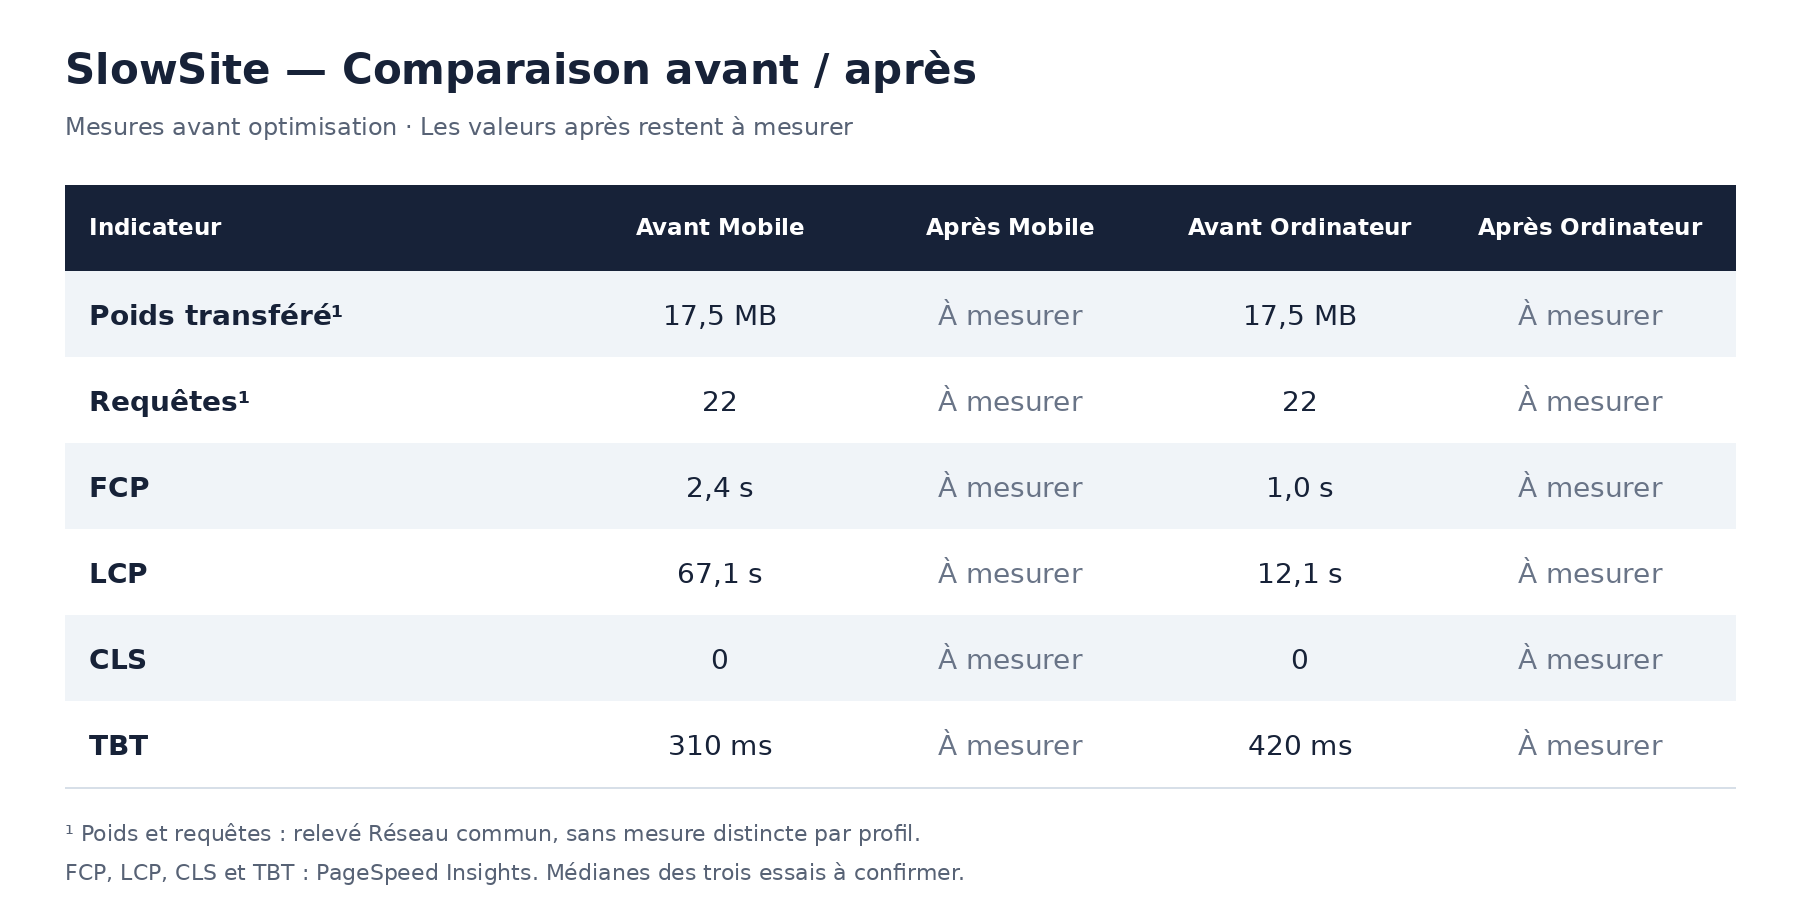
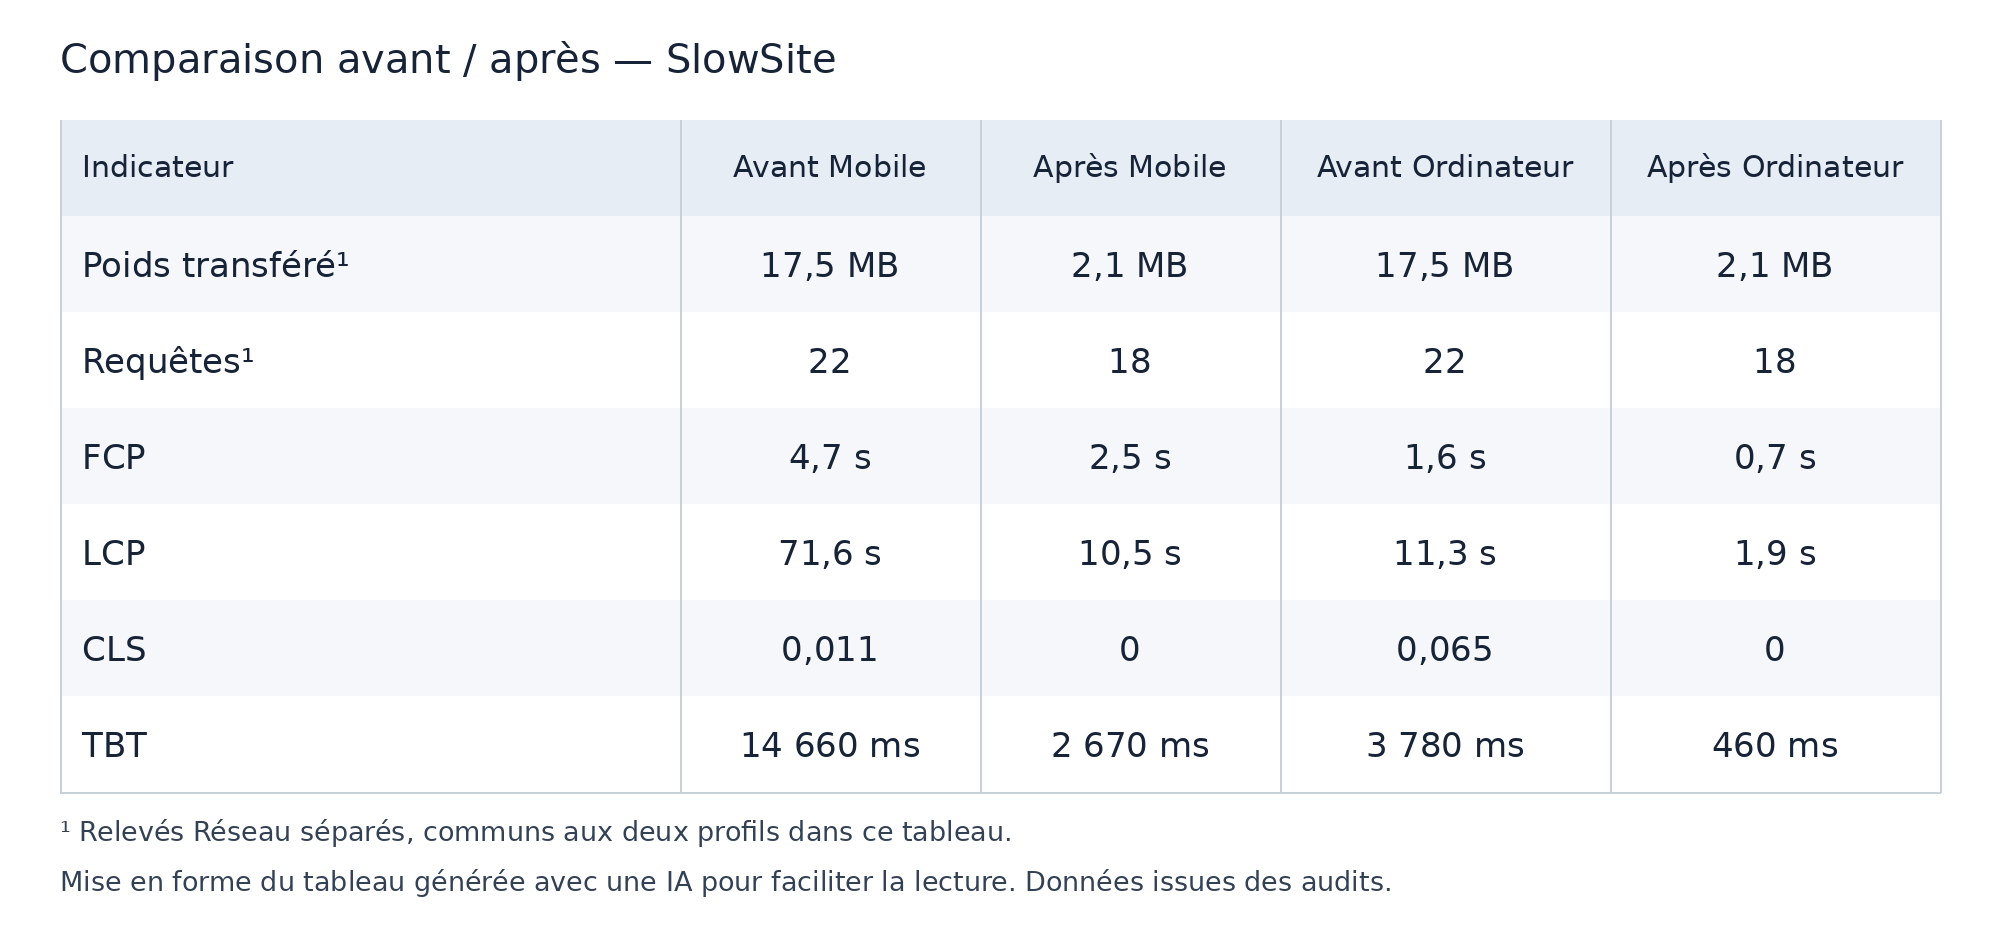
rapport

diff --git a/rapport.md b/rapport.md
@@ -6,189 +6,100 @@ Site : https://mohamed-site-web.github.io/R314-optimisation-site/
 
 Dépôt : https://github.com/mohamed-site-web/R314-optimisation-site
 
-## 1. Audit initial
+## 1. Audit initial et conditions de mesure
 
-L’objectif est de rendre SlowSite plus rapide en gardant la même apparence et les mêmes fonctionnalités.
+L’objectif du TP est de rendre SlowSite plus rapide en conservant son apparence et ses fonctionnalités.
 
-Les relevés portent sur le site publié sur GitHub Pages. Pour Réseau, le cache est désactivé et les fichiers sont triés par taille.
+Les mesures ont été réalisées sur le site publié sur GitHub Pages. Dans Réseau, le cache était désactivé et les ressources étaient triées par taille. Le relevé final a été effectué après défilement pour charger aussi les images différées. Les tailles en MB sont reprises telles qu’elles sont affichées par le navigateur.
 
-Le test Lighthouse Mobile a été réalisé en navigation privée. Les trois scores obtenus sont 25, 27 et 26. J’ai retenu l’essai à 26/100, qui correspond au score médian.
+Pour les audits Lighthouse finaux, j’ai utilisé les profils Mobile et Ordinateur en navigation privée, sans le widget ?perf=1. Les trois scores Mobile initiaux étaient 25, 27 et 26. La capture retenue correspond au score médian de 26. Pour les relevés finaux, j’ai effectué trois essais par profil et calculé la médiane de chaque indicateur séparément. La capture Ordinateur initiale disponible constitue un relevé unique, et non une médiane de trois essais documentés ; ses conditions initiales ne sont pas entièrement documentées.
 
-Les séries de trois essais des autres profils restent à documenter. Pour Performance, le réglage CPU ×4 et la durée complète d’au moins 20 secondes avec défilement restent à confirmer. Le relevé Lighthouse Ordinateur reste provisoire tant que ses conditions sans extensions ne sont pas confirmées.
+Le panneau Performance a été utilisé avec un ralentissement CPU ×4 et des enregistrements avec défilement d’au moins 20 secondes. Des sessions sans défilement ont aussi permis de comparer le script différé sur fenêtre large et étroite. Coverage a servi à repérer le CSS inutilisé, avec une vérification des fichiers HTML et JavaScript avant suppression.
 
-### Réseau
-
-Le site transfère 17,5 MB pour 22 requêtes. Les images représentent l’essentiel du poids : plusieurs dépassent 1 MB et certaines atteignent environ 3,39 MB.
+Au départ, Réseau indiquait 17,5 MB pour 22 requêtes. Les images représentaient l’essentiel du poids.
 
 ![Réseau avant optimisation](audit/Reseau-avant.png)
 
-### Lighthouse
+PageSpeed Insights donnait aussi des LCP élevés : 67,1 s sur Mobile et 12,1 s sur Ordinateur. Les captures sont conservées dans audit/Insights.png et audit/Insights-pc.png. Ces résultats ne sont pas mélangés avec Lighthouse dans le tableau, car les conditions sont différentes. Aucune donnée de terrain sur les visiteurs n’était disponible : l’audit repose sur des données de laboratoire.
 
-Sur Mobile, le résultat retenu est de 26/100 :
+## 2. Problèmes, corrections et résultats
 
-- FCP : 4,7 s.
-- LCP : 71,6 s.
-- TBT : 14 660 ms.
-- CLS : 0,011.
+### Images et téléchargements inutiles
 
-Le contenu principal apparaît très tard et le thread principal reste longtemps bloqué pendant le chargement.
+Les images étaient trop lourdes. J’ai réduit les six images, utilisé WebP et ajouté des variantes de 760 pixels avec srcset et sizes, selon la grille responsive. Les pages de détail conservent les images plus grandes. La règle max-width:100%;height:auto évite leur débordement sur petit écran.
 
-![Lighthouse Mobile avant optimisation](audit/Lighthouse-Mobile-avant.png)
+Après réduction des images, le total est passé de 14,2 à 7,4 MB. Le passage en WebP seul n’a pas apporté de gain : le relevé suivant affichait 7,6 MB. L’optimisation du fond a ensuite réduit son transfert d’environ 3,39 MB à 788 kB et le total à 5 MB. Avec les variantes adaptées à la galerie, un relevé affichait environ 2,09 MB. Ces étapes sont documentées dans les captures Réseau intermédiaires du dossier audit/.
 
-Sur Ordinateur, la capture disponible affiche 29/100 :
+Le préchargement de img6.jpg?v=2 provoquait un téléchargement supplémentaire. Sa suppression a fait passer le poids de 17,5 à 14,2 MB et les requêtes de 22 à 21, soit environ 3,3 MB économisés. Le retrait de la référence au script absent js/legacy/polyfills.js a ensuite réduit les requêtes à 20. Les preuves sont audit/Reseau-apres-prel.png et audit/Reseau-apres-poly.png.
 
-- FCP : 1,6 s.
-- LCP : 11,3 s.
-- TBT : 3 780 ms.
-- CLS : 0,065.
+J’ai ajouté width et height aux images pour réserver leur place. Les CLS relevés après cette étape étaient 0, 0,034 et 0,011 : la médiane de 0,011 ne montrait pas encore de gain par rapport au Mobile initial. J’ai aussi ajouté decoding="async" et loading="lazy" aux dernières images. Le chargement différé décale les transferts sans réduire le poids total une fois toutes les images chargées.
 
-![Lighthouse Ordinateur avant optimisation](<audit/Lighthouse  Ordinateur  Avant optimisation.png>)
+### Chargement des scripts, du CSS et des polices
 
-### PageSpeed Insights
+J’ai ajouté defer aux scripts en conservant leur ordre, remplacé les imports CSS par des liens HTML et regroupé le chargement des polices avec display=swap. J’ai aussi retiré une indication DNS inutile.
 
-Sur Mobile, le score est de 56/100 :
+Après defer, les médianes Mobile étaient FCP 3,3 s, LCP 8,3 s, TBT 10 690 ms et CLS 0. Ce résultat intermédiaire comprend les optimisations d’images précédentes et ne mesure donc pas le gain de defer seul. La capture est audit/Lighthouse-mobile-apres-defer.png.
 
-- FCP : 2,4 s.
-- LCP : 67,1 s.
-- TBT : 310 ms.
-- CLS : 0.
+### Suggestions et calculs pendant le défilement
 
-![PageSpeed Insights Mobile](audit/Insights.png)
+buildKeywordIndex utilisait innerHTML += dans une boucle. J’ai construit toutes les options avant une seule insertion. Les suggestions sont conservées. La fonction n’apparaissait plus parmi les principales activités du relevé suivant, sans que cela signifie un temps nul.
 
-Sur Ordinateur, le score est de 46/100 :
+Dans revealCards, la hauteur maximale était recalculée dans une boucle imbriquée. Les lectures de dimensions et les écritures de styles étaient mélangées, ce qui favorisait les reflows forcés. J’ai supprimé les calculs répétés, séparé les lectures des écritures et regroupé les mises à jour avec requestAnimationFrame.
 
-- FCP : 1 s.
-- LCP : 12,1 s.
-- TBT : 420 ms.
-- CLS : 0.
+Un relevé après correction affichait environ 539 ms de temps total pour revealCards, contre 6 327 ms au départ. Les défilements n’étant pas identiques, ce sont des ordres de grandeur. Les preuves sont audit/Performance-apres-suggestions.png, audit/Performance-apres-revealCards.png et les profils initiaux.
 
-![PageSpeed Insights Ordinateur](audit/Insights-pc.png)
+### Bibliothèque UIKit et observateur
 
-Ces résultats montrent surtout un chargement lent du contenu principal. Les mesures de Lighthouse sur mon ordinateur et celles de PageSpeed ne sont pas directement comparables, car leurs conditions sont différentes.
+UIKit exécutait une attente active et créait un grand tableau inutilisé au démarrage. Son MutationObserver relisait les styles de toute la page après les modifications, notamment pendant le défilement.
 
-L’audit repose sur des données de laboratoire. Je ne dispose pas de données de terrain sur les visiteurs.
+J’ai retiré les calculs inutilisés, puis remplacé les helpers par les fonctions JavaScript natives. Le retrait d’UIKit a aussi supprimé l’observateur inutile, en conservant les interactions. Les appels _sync n’apparaissaient plus parmi les principales activités du profil suivant. La preuve est audit/Performance-apres-retrait-uikit.png.
 
-### Performance et Coverage
+### Calcul différé et conditionnel dans analytics.js
 
-La frise montre plusieurs tâches longues. Dans Bottom-up, `revealCards` représente environ 6 327 ms de temps total et `buildKeywordIndex` environ 3 232 ms. Ces temps incluent les fonctions appelées et ne doivent pas être additionnés.
+Le calcul commençait environ 9,1 secondes après le chargement, puis revenait toutes les 2,6 secondes. Il ne travaillait que sur une page visible de plus de 1 024 pixels de large. Sa boucle occupait progressivement le processeur pendant 46 à 430 ms par appel.
 
-![Frise Performance avant optimisation](audit/frise.png)
+Les chaînes base64 masquaient innerWidth, performance, now et hidden. Leur décodage et les profils ont permis de comprendre le problème. Sur grand écran, _tick cumulait environ 3,94 s sur la plage affichée. En fenêtre étroite, la fonction revenait immédiatement et représentait environ 0,6 ms.
 
-![Bottom-up avant optimisation](<audit/avant optimisation.png>)
+J’ai remplacé la boucle par un seul calcul par appel, en conservant le minuteur et les conditions. Après correction sur grand écran, _tick représentait environ 97 ms sur la plage affichée et les gros pics réguliers avaient disparu. Ces temps de profil ne sont pas le TBT Lighthouse.
 
-Coverage indique une forte proportion de CSS inutilisé pendant la session :
+![Analytics avant correction sur grand écran](audit/Performance-avant-analytics-large.png)
 
-- `styles.css` : 95,8 %.
-- `extra.css` : 99,5 %.
-- `theme-legacy.css` : 80,4 %.
+![Analytics après correction sur grand écran](audit/Performance-apres-analytics.png)
 
-Il faudra vérifier les autres pages et interactions avant de retirer des règles.
+### Nettoyage et minification du CSS
 
-![Résultats Coverage](audit/coverage.png)
+Coverage indiquait 95,8 % de code inutilisé dans styles.css et 99,5 % dans extra.css. Après vérification des pages et des scripts, j’ai supprimé les classes inutilisées redundant-*, extra-*, legacy-*, tile* et highlight. Les règles nécessaires aux images, au calendrier et aux petits écrans ont été conservées.
 
-## 2. Problèmes identifiés et corrections proposées
+Le code de styles.css est passé de 91 998 à 4 348 octets, celui d’extra.css de 28 798 à 142 octets et celui de theme-legacy.css de 1 142 à 299 octets. Coverage n’indiquait plus que 10,9 % d’inutilisé dans styles.css. Ces tailles concernent le code décompressé, pas le transfert réseau.
 
-Les emplacements correspondent au code avant modification. Les corrections suivantes ne sont pas encore appliquées.
+![Coverage après nettoyage du CSS](audit/Coverage-apres-nettoyage-css.png)
 
-### Images et favicon trop lourds
+J’ai conservé les ombres et le flou : le profil ne permettait pas d’isoler leur coût. J’ai limité la transition du bouton à transform, en gardant son ombre au survol. Les autres transitions utilisent déjà transform ou opacity. Aucun gain chiffré propre à ce changement n’est annoncé.
 
-Dans `index.html`, lignes 75 à 90, la galerie utilise des images volumineuses. Le fond déclaré dans `css/theme-legacy.css:10` pèse aussi environ 3,39 MB. Le favicon, appelé dans `index.html:8`, représente environ 788 kB.
+Enfin, j’ai minifié les trois feuilles CSS. Le relevé publié affichait 1,8 kB pour styles.css, sans permettre d’isoler le gain de la minification. La preuve est audit/Reseau-apres-minification-css.png.
 
-Ces poids sont visibles dans la capture Réseau.
+## 3. Comparaison finale
 
-Je propose de compresser les images et d’adapter leurs dimensions à leur utilisation, en gardant une qualité suffisante. Le favicon peut aussi être remplacé par une version plus légère.
+Les valeurs Lighthouse « Avant » viennent des captures initiales : l’essai au score médian pour Mobile et le relevé disponible pour Ordinateur. Les valeurs « Après » sont les médianes de chaque indicateur sur trois essais par profil. Les captures représentatives peuvent donc afficher une valeur différente de certaines médianes.
 
-### Téléchargement supplémentaire
+Le poids et les requêtes proviennent de relevés Réseau séparés. Ils ne sont pas présentés comme des mesures propres à chacun des deux profils Lighthouse. La comparaison réseau dépend aussi du format d’écran, puisque srcset adapte les images téléchargées.
 
-Dans `index.html:12`, le site précharge `img6.jpg?v=2`, alors que la galerie utilise `img6.jpg` à la ligne 90. Réseau montre deux transferts d’environ 3,39 MB chacun.
+![Tableau comparatif des six indicateurs avant et après optimisation](audit/tableau-avant-apres.png)
 
-Je propose de retirer ce préchargement s’il n’est pas utile au premier affichage. L’économie réelle sera vérifiée après publication.
+La mise en forme de ce tableau a été générée avec une IA pour faciliter la lecture. Les chiffres proviennent des relevés d’audit.
 
-### Images sans dimensions
+Les scores finaux étaient 40, 42 et 39 sur Mobile, soit une médiane de 40. Sur Ordinateur, ils étaient 56, 74 et 68, soit une médiane de 68. Les variations, notamment du TBT, montrent l’intérêt des trois essais.
 
-Les images de la galerie, dans `index.html:75–90`, n’ont pas d’attributs `width` et `height`. Les diagnostics le signalent également.
+![Réseau après les optimisations](audit/Reseau-apres-final.png)
 
-Cela peut provoquer des déplacements de contenu, même si le CLS est nul sur les essais PageSpeed disponibles.
+![Lighthouse Mobile après les optimisations](audit/Lighthouse-mobile-apres.png)
 
-Je propose d’ajouter les dimensions réelles tout en gardant les images responsives.
+![Lighthouse Ordinateur après les optimisations](audit/Lighthouse-ordinateur-apres.png)
 
-Preuve : [capture des diagnostics](audit/dianostic.png).
+## 4. Limites et bilan
 
-### Construction des suggestions coûteuse
+Le relevé Réseau final affiche environ 88 % de poids transféré en moins et quatre requêtes en moins. Les captures Lighthouse montrent aussi un affichage du contenu principal plus rapide. Le résultat Mobile reste à améliorer : le LCP médian est encore de 10,5 s et le TBT de 2 670 ms. Le favicon, encore lourd, constitue également une piste restante.
 
-Dans `js/app.js:74–82`, `buildKeywordIndex` utilise `innerHTML +=` dans une boucle. Cela reconstruit plusieurs fois le contenu du datalist.
+Les corrections ont porté sur les ressources et les traitements, en conservant la galerie, ses liens, le filtre, les suggestions et le calendrier. Les temps Performance dépendent du défilement et les premiers relevés ne documentent pas tous une série complète de trois essais. Ces limites empêchent d’attribuer un gain exact à chaque modification.
 
-Bottom-up attribue environ 3 232 ms de temps total à cette fonction.
-
-Je propose de construire toutes les options avant de les insérer en une seule fois.
-
-### Calculs répétés pendant le défilement
-
-Dans `js/app.js:158–187`, `revealCards` mélange lectures de dimensions et modifications de styles. La hauteur maximale des cartes est recalculée dans une boucle imbriquée.
-
-Le profil Performance montre beaucoup de temps passé dans cette fonction et dans les calculs de mise en page.
-
-Je propose de regrouper les lectures avant les écritures et de limiter les calculs répétés pendant le défilement, tout en gardant les animations.
-
-### Bibliothèque JavaScript coûteuse
-
-Le diagnostic PageSpeed attribue 963 ms de CPU à `js/vendor/ui-kit.min.js`, contre 1 288 ms à `js/app.js`.
-
-À la ligne 2 du fichier minifié, le code contient une attente active, de nombreuses allocations et un mécanisme qui relit les styles de tous les éléments après des modifications.
-
-Je propose de conserver les fonctions utiles et de limiter les traitements inutiles, puis de mesurer le résultat.
-
-![Temps CPU des fichiers JavaScript](<audit/js probleme.png>)
-
-### CSS et dépendances
-
-Les imports au début de `styles.css`, `extra.css` et `theme-legacy.css` créent une chaîne de chargement. Coverage montre aussi beaucoup de règles inutilisées pendant la session.
-
-Je propose de simplifier les dépendances et de retirer seulement les règles dont l’inutilité a été vérifiée sur les pages et les formats d’écran concernés.
-
-Le gain réseau devra être mesuré sur le site publié, où les fichiers texte sont compressés.
-
-### Piste conditionnelle à tester
-
-Le code de `js/analytics.js` contient un calcul périodique qui s’active après un délai, seulement si la page est visible et plus large que 1 024 pixels. Sa durée augmente avec les passages.
-
-Cette piste reste à confirmer avec un enregistrement long, puis une comparaison entre fenêtre large et étroite. Aucun gain n’a encore été mesuré pour ce point.
-
-## 3. Corrections et résultats avant/après
-
-Les corrections n’ont pas encore été réalisées.
-
-Le tableau rassemble les six indicateurs demandés. Les temps viennent de PageSpeed Insights. Le poids et les requêtes viennent d’un relevé Réseau séparé, commun aux deux profils de départ.
-
-### Suppression du préchargement supplémentaire
-
-J’ai retiré de `index.html` le préchargement de `img6.jpg?v=2`. L’image reste présente dans la galerie avec l’adresse `img6.jpg`.
-
-Après publication, le poids transféré passe de 17,5 à 14,2 MB, soit environ 3,3 MB économisés (19 %). Le nombre de requêtes passe de 22 à 21.
-
-![Réseau après suppression du préchargement](audit/Reseau-apres-prel.png)
-
-### Suppression de la référence au script absent
-
-J’ai retiré la référence à `js/legacy/polyfills.js`, qui renvoyait une erreur 404. Le nombre de requêtes passe de 21 à 20. Le poids transféré reste à 14,2 MB à l’arrondi affiché.
-
-
-![Comparaison avant et après optimisation](audit/tableau-avant-apres.png)
-
-Après chaque optimisation, je noterai :
-
-- Le problème et sa preuve.
-- La correction appliquée.
-- Le commit correspondant.
-- Les mesures après correction.
-- Le gain mesuré.
-
-Les mesures seront refaites sur le site publié dans les mêmes conditions. Je comparerai aussi l’apparence et testerai la galerie, le filtre, les suggestions, les animations et le calendrier.
-
-Les colonnes « Après » seront complétées avec ces résultats.
-
-## 4. Bilan provisoire
-
-Les principaux problèmes concernent le poids des images et le travail JavaScript.
-
-Je commencerai par les ressources lourdes, puis les traitements JavaScript et le CSS. Les captures avant et après permettront de vérifier les gains et de confirmer que le rendu du site reste identique.
+Le site étant hébergé sur GitHub Pages, certains réglages serveur ne sont pas directement accessibles. D’après le guide, gzip y est déjà appliqué aux fichiers texte. Sur un serveur configurable, je vérifierais gzip ou Brotli, un cache long pour les ressources versionnées et une revalidation courte pour le HTML. Un outil de build pourrait ajouter une empreinte aux noms des fichiers pour renouveler le cache à chaque version. Je vérifierais aussi HTTP/2 ou HTTP/3 et l’utilisation d’un CDN. Ces pistes ne sont pas présentées comme des corrections réalisées ni comme des gains mesurés dans ce TP.
